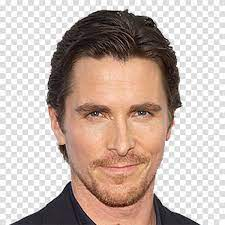
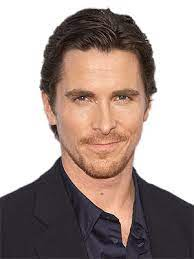
added the actors

diff --git a/server.js b/server.js
@@ -11,7 +11,7 @@ app.get("/api/movie-stars", (req, res) => {
     const actors = [];
     actors[0] = {
         name: "Christian Bale",
-        age: "40 something",
+        age: "49",
         height: "6'0",
         born: "Haverfordwest, United Kingdom",
         movies: ["Batman Begins","The Dark Knight","The Dark Knight Rises"],
@@ -19,35 +19,35 @@ app.get("/api/movie-stars", (req, res) => {
     };
     actors[1] = {
         name: "Anne Hathaway",
-        age: "40 something",
-        height: "6'0",
-        born: "Haverfordwest, United Kingdom",
-        movies: ["Batman Begins","The Dark Knight","The Dark Knight Rises"],
-        img: "images/bale.jpg"
+        age: "40",
+        height: "5'8",
+        born: "Brooklyn, New York, NY",
+        movies: ["The Devil Wears Prada","Hustle","The Dark Knight Rises"],
+        img: "images/hathaway.jpg"
     };
     actors[2] = {
-        name: "Tom Hardy",
-        age: "40 something",
-        height: "6'0",
-        born: "Haverfordwest, United Kingdom",
-        movies: ["Batman Begins","The Dark Knight","The Dark Knight Rises"],
-        img: "images/bale.jpg"
+        name: "Tom Cruise",
+        age: "61",
+        height: "5'7",
+        born: "Syracuse, NY",
+        movies: ["Top Gun","Top Gun: Maverick","Mission Impossible: Rogue Nation"],
+        img: "images/cruise.jpg"
     };
     actors[3] = {
-        name: "Alfred maybe",
-        age: "40 something",
-        height: "6'0",
-        born: "Haverfordwest, United Kingdom",
-        movies: ["Batman Begins","The Dark Knight","The Dark Knight Rises"],
-        img: "images/bale.jpg"
+        name: "Catherine Zeta-Jones",
+        age: "54",
+        height: "5'7",
+        born: "Swansea, United Kingdom",
+        movies: ["The Legend of Zorro","The Mask of Zorro","Ocean's Twelve"],
+        img: "images/catherine.jpg"
     };
     actors[4] = {
-        name: "Morgan Freeman",
-        age: "40 something",
+        name: "Ryan Gosling",
+        age: "42",
         height: "6'0",
-        born: "Haverfordwest, United Kingdom",
-        movies: ["Batman Begins","The Dark Knight","The Dark Knight Rises"],
-        img: "images/bale.jpg"
+        born: "London, Canada",
+        movies: ["Barbie","The Gray Man","Blade Runner 2049"],
+        img: "images/gosling.jpg"
     };
 
     res.json(actors);

diff --git a/public/script.js b/public/script.js
@@ -6,7 +6,7 @@ const showActors = async() => {
         console.log("Invalid load of json");
         return;
     }
-    
+
     const theSectionsContainer = document.createElement("div");
     theSectionsContainer.classList.add("the-sections");
     moviestarDiv.append(theSectionsContainer);
@@ -20,13 +20,12 @@ const showActors = async() => {
         section.append(h3);
 
         const img = document.createElement("img");
-        //img.src = "http://localhost:3000/" + star.img;
-        img.src="https://place-hold.it/200x200/#d3d3d3";
+        img.src = "http://localhost:3000/" + star.img;
         section.append(img);
 
         const p = document.createElement("p");
         p.innerHTML = `<strong>Age:</strong> ${star.age}<br> <strong>Height: </strong>${star.height}<br>
-        <strong>Born:</strong> ${star.born}<br> <strong>Movies: </strong> ${star.movies}`;
+        <strong>Born:</strong> ${star.born}<br> <strong>Movies: </strong> ${star.movies.join(', ')}`;
         section.append(p);
 
     });

diff --git a/public/styles.css b/public/styles.css
@@ -53,6 +53,8 @@ img {
     box-shadow: 0 4px 8px rgba(0, 0, 0, 0.5);
     border: 2px solid cornflowerblue;
     border-radius: 50%;
+    width: 200px;
+    height: 200px;
 }
 
 p {
